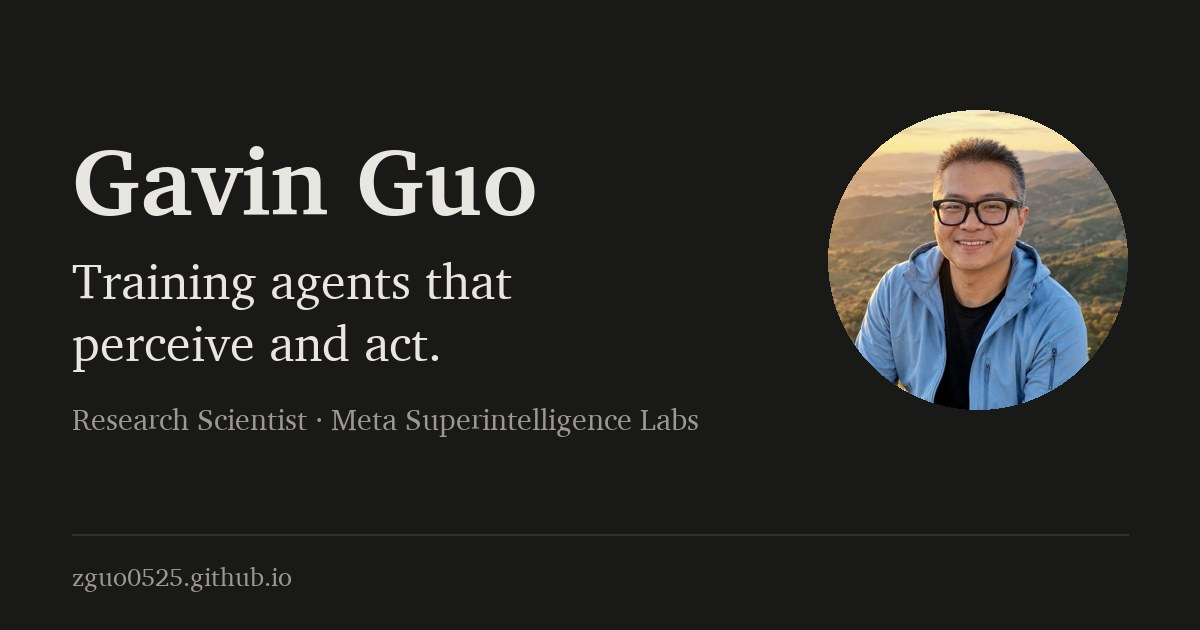
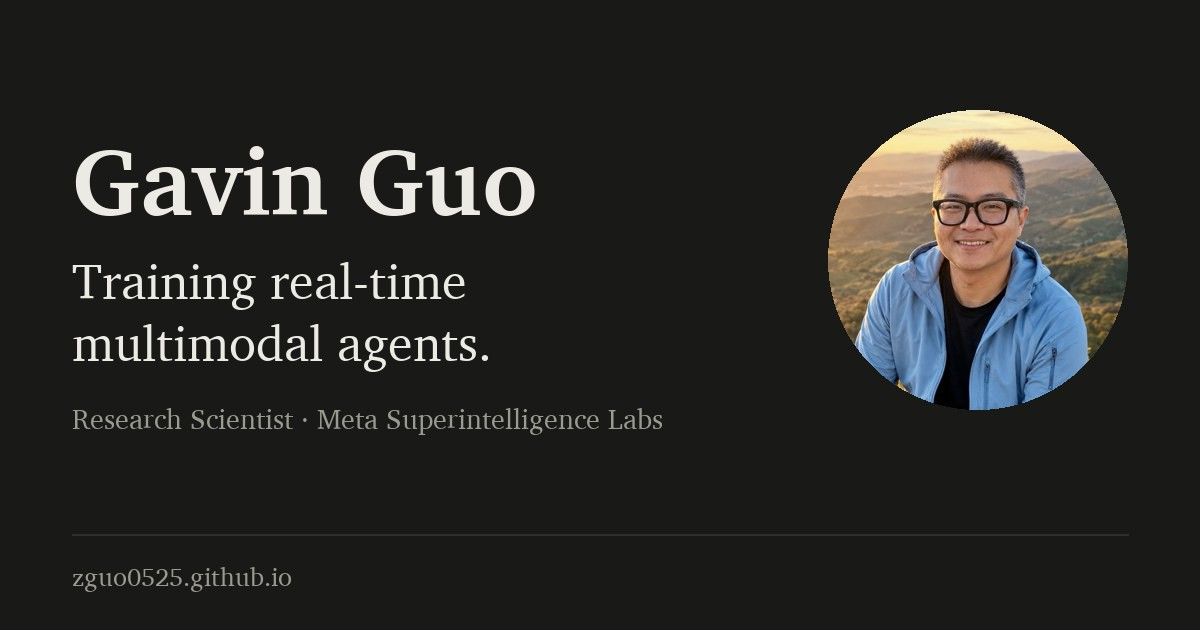
New opening and tagline, CV links on research cards, fix JetMoE claim, add Muse report to papers
Claude-Session: https://claude.ai/code/session_01HnC98uYSSXDKz9D1f4jfEu

Changed region(s): [[0.0617, 0.4222, 0.4317, 0.573], [0.0617, 0.6333, 0.5858, 0.6937]]

diff --git a/_layouts/default.html b/_layouts/default.html
@@ -6,7 +6,7 @@
     <meta name="theme-color" content="#191917">
     <meta name="color-scheme" content="dark">
     {% assign is_home_head = false %}{% if page.url == '/' or page.url == '/index.html' %}{% assign is_home_head = true %}{% endif %}
-    <title>{% if is_home_head %}Gavin Guo (国振) · Training agents that perceive and act{% else %}{{ page.title }} · Gavin Guo{% endif %}</title>
+    <title>{% if is_home_head %}Gavin Guo (国振) · Training real-time multimodal agents{% else %}{{ page.title }} · Gavin Guo{% endif %}</title>
     {% seo title=false %}
     <link rel="alternate" type="application/atom+xml" title="Essays — Gavin Guo" href="{{ '/feed/articles.xml' | relative_url }}">
     <link rel="icon" type="image/png" sizes="64x64" href="{{ '/favicon.png' | relative_url }}?v={{ site.time | date: '%s' }}">
@@ -51,7 +51,7 @@
           <div class="title-row">
             <h1 class="site-title"><a href="{{ '/' | absolute_url }}">Gavin Guo</a><span class="site-cjk">（国振）</span></h1>
           </div>
-          <p class="site-tagline"><span class="tagline-thesis">Training agents that perceive and act.</span> <span class="tagline-org">Research Scientist, Meta Superintelligence Labs · 2025–</span></p>
+          <p class="site-tagline"><span class="tagline-thesis">Training real-time multimodal agents.</span> <span class="tagline-org">Research Scientist, Meta Superintelligence Labs · 2025–</span></p>
         </div>
         <ul class="links" aria-label="Contact and profiles">
           <li><a href="mailto:{{ site.author.email }}">{% include icon-envelope.svg %}Email</a></li>

diff --git a/index.md b/index.md
@@ -1,16 +1,16 @@
 ---
 layout: default
-title: Training agents that perceive and act
+title: Training real-time multimodal agents
 ---
 
-I train multimodal models to act in the real world. Start from the capability we want, build the tasks, environments, rewards, and synthetic data that teach it, then train with RL.
+I train real-time multimodal agents that talk, listen, and act while the interaction is still going. I build the tasks, synthetic data, and rewards, then train with RL.
 
-At <img class="logo-inline" src="{{ '/assets/logos/meta.com.png' | relative_url }}" alt="" width="16" height="16">[**Meta Superintelligence Labs**](https://ai.meta.com/) I lead synthetic data and RL for [Muse](https://research.meta.ai/blog/bringing-your-muse-to-life), a real-time omni model for personal agents, and built the offline RL system behind [Vibes](https://about.fb.com/news/2025/09/introducing-vibes-ai-videos/). Before that, I worked on **Visual Intelligence** at <img class="logo-inline" src="{{ '/assets/logos/apple.com.png' | relative_url }}" alt="" width="16" height="16">[Apple](https://www.apple.com/newsroom/2025/06/apple-intelligence-gets-even-more-powerful-with-new-capabilities-across-apple-devices/) and **foundation models** at <img class="logo-inline" src="{{ '/assets/logos/mitibmwatsonailab.mit.edu.png' | relative_url }}" alt="" width="16" height="16">[MIT-IBM Watson](https://mitibmwatsonailab.mit.edu/). I got my **Ph.D. in Computer Science** at <img class="logo-inline" src="{{ '/assets/logos/mit.edu.png' | relative_url }}" alt="" width="16" height="16">[**MIT**](https://www.mit.edu/), and **B.A. in Physics** at <img class="logo-inline" src="{{ '/assets/logos/berkeley.edu.png' | relative_url }}" alt="" width="16" height="16">[**UC Berkeley**](https://www.berkeley.edu/). Outside work I read, write, bike, and hike.
+At <img class="logo-inline" src="{{ '/assets/logos/meta.com.png' | relative_url }}" alt="" width="16" height="16">[**Meta Superintelligence Labs**](https://ai.meta.com/) I lead synthetic data and RL for [Muse](https://research.meta.ai/blog/bringing-your-muse-to-life), and built the offline RL system behind [Vibes](https://about.fb.com/news/2025/09/introducing-vibes-ai-videos/). Before that, I worked on **Visual Intelligence** at <img class="logo-inline" src="{{ '/assets/logos/apple.com.png' | relative_url }}" alt="" width="16" height="16">[Apple](https://www.apple.com/newsroom/2025/06/apple-intelligence-gets-even-more-powerful-with-new-capabilities-across-apple-devices/) and **foundation models** at <img class="logo-inline" src="{{ '/assets/logos/mitibmwatsonailab.mit.edu.png' | relative_url }}" alt="" width="16" height="16">[MIT-IBM Watson](https://mitibmwatsonailab.mit.edu/). I got my **Ph.D. in Computer Science** at <img class="logo-inline" src="{{ '/assets/logos/mit.edu.png' | relative_url }}" alt="" width="16" height="16">[**MIT**](https://www.mit.edu/), and **B.A. in Physics** at <img class="logo-inline" src="{{ '/assets/logos/berkeley.edu.png' | relative_url }}" alt="" width="16" height="16">[**UC Berkeley**](https://www.berkeley.edu/). Outside work I read, write, bike, and hike.
 
 <dl class="now" markdown="0">
   <div class="now-row"><dt>Open questions</dt><dd>
     <ul>
-      <li>What does an agent need to perceive and act continuously, rather than turn by turn? <a class="chip chip-jump" href="#muse">Muse ↓</a></li>
+      <li>What does an agent need to keep state and act continuously, rather than turn by turn? <a class="chip chip-jump" href="#muse">Muse ↓</a></li>
       <li>How far can a task definition alone take you: environment, reward, and data? <a class="chip chip-jump" href="#synthetic-data-rl">Synthetic Data RL ↓</a></li>
       <li>How small can a model be and still plan on-device? <a class="chip chip-jump" href="#octo-planner">Octo-planner ↓</a></li>
     </ul>
@@ -28,9 +28,9 @@ At <img class="logo-inline" src="{{ '/assets/logos/meta.com.png' | relative_url 
   </a>
   <div class="rs-text">
     <div class="rs-kicker">Muse · Meta Connect 2026</div>
-    <h3><a href="https://research.meta.ai/blog/bringing-your-muse-to-life">Muse Realtime Voice and Avatar</a></h3>
-    <p>Muse Realtime Voice carries the conversation as a stream of speech tokens, and Muse Realtime Avatar turns the same stream into a live, expressive character for as long as the conversation runs. I lead synthetic data and RL, and work on the distillation that makes it fast enough to serve in real time.</p>
-    <p class="rs-refs"><a class="chip" href="https://research.meta.ai/blog/bringing-your-muse-to-life">Keynote</a></p>
+    <h3><a href="https://research.meta.ai/blog/bringing-your-muse-to-life">Real-time avatars for live conversation</a></h3>
+    <p>A live, expressive avatar that talks with you in real time. I lead synthetic data and RL, and developed the self-forcing and DMD distillation that makes it fast enough to run live.</p>
+    <p class="rs-refs"><a class="chip" href="https://research.meta.ai/blog/bringing-your-muse-to-life">Blog</a><a class="chip" href="https://x.com/AIatMeta/status/2102997291732766943">Keynote</a></p>
   </div>
 </article>
 
@@ -42,7 +42,7 @@ At <img class="logo-inline" src="{{ '/assets/logos/meta.com.png' | relative_url 
     <div class="rs-kicker">Vibes · 2025</div>
     <h3><a href="https://about.fb.com/news/2025/09/introducing-vibes-ai-videos/">Offline RL for a generated-video feed</a></h3>
     <p>Built the agentic long-form video workflow and the offline RL system behind Vibes, Meta AI's personalized video feed, and led its human-evaluation data.</p>
-    <p class="rs-refs"><a class="chip" href="https://about.fb.com/news/2025/09/introducing-vibes-ai-videos/">Blog</a></p>
+    <p class="rs-refs"><a class="chip" href="https://about.fb.com/news/2025/09/introducing-vibes-ai-videos/">Blog</a><a class="chip" href="https://s21.q4cdn.com/399680738/files/doc_financials/2025/q3/META-Q3-2025-Earnings-Call-Transcript.pdf">Earnings call</a><a class="chip" href="https://about.fb.com/news/2025/11/bringing-vibes-to-europe-a-new-way-to-create-share-and-play-in-the-meta-ai-app/">Europe</a></p>
   </div>
 </article>
 
@@ -54,7 +54,7 @@ At <img class="logo-inline" src="{{ '/assets/logos/meta.com.png' | relative_url 
     <div class="rs-kicker">Apple · 2025</div>
     <h3><a href="https://www.apple.com/newsroom/2025/06/apple-intelligence-gets-even-more-powerful-with-new-capabilities-across-apple-devices/">Visual Intelligence on device</a></h3>
     <p>Built the datasets for on-device visual question answering on iPhone with privacy-preserving VLMs, and post-trained Apple's foundation model for proactive question answering on egocentric video. Shipped in Apple Intelligence at WWDC 2025.</p>
-    <p class="rs-refs"><a class="chip" href="https://www.apple.com/newsroom/2025/06/apple-intelligence-gets-even-more-powerful-with-new-capabilities-across-apple-devices/">Blog</a></p>
+    <p class="rs-refs"><a class="chip" href="https://www.apple.com/newsroom/2025/06/apple-intelligence-gets-even-more-powerful-with-new-capabilities-across-apple-devices/">Blog</a><a class="chip" href="https://machinelearning.apple.com/research/apple-foundation-models-tech-report-2025">Tech report</a></p>
   </div>
 </article>
 
@@ -76,9 +76,9 @@ At <img class="logo-inline" src="{{ '/assets/logos/meta.com.png' | relative_url 
   </a>
   <div class="rs-text">
     <div class="rs-kicker">JetMoE · 2024</div>
-    <h3><a href="https://arxiv.org/abs/2404.07413">Open MoE at Llama2-13B quality</a></h3>
-    <p>JetMoE-8B, an open-source mixture-of-experts model trained for a fraction of the usual cost that outperforms Llama2-13B, with a synthetic corpus for pre-training and post-training.</p>
-    <p class="rs-refs"><a class="chip" href="https://arxiv.org/abs/2404.07413">Paper</a><a class="chip" href="https://github.com/myshell-ai/JetMoE">Code</a></p>
+    <h3><a href="https://arxiv.org/abs/2404.07413">Llama2-level open MoE on a small budget</a></h3>
+    <p>JetMoE-8B, an open-source mixture-of-experts model trained for a fraction of the usual cost, with a synthetic corpus for pre-training and post-training. Its chat model beats Llama2-13B-Chat on MT-Bench.</p>
+    <p class="rs-refs"><a class="chip" href="https://arxiv.org/abs/2404.07413">Paper</a><a class="chip" href="https://github.com/myshell-ai/JetMoE">Code</a><a class="chip" href="https://huggingface.co/jetmoe/jetmoe-8b">Model</a><a class="chip" href="https://x.com/MIT_CSAIL/status/1775916496503656679">CSAIL</a></p>
   </div>
 </article>
 
@@ -90,13 +90,13 @@ At <img class="logo-inline" src="{{ '/assets/logos/meta.com.png' | relative_url 
     <div class="rs-kicker">Octo-planner · 2024</div>
     <h3><a href="https://arxiv.org/abs/2406.18082">On-device planner-action agents</a></h3>
     <p>Efficient on-device task planning and decomposition, trained on a synthetic planning dataset with a multi-LoRA post-training pipeline.</p>
-    <p class="rs-refs"><a class="chip" href="https://arxiv.org/abs/2406.18082">Paper</a></p>
+    <p class="rs-refs"><a class="chip" href="https://arxiv.org/abs/2406.18082">Paper</a><a class="chip" href="https://huggingface.co/NexaAI/octopus-planning">Model</a><a class="chip" href="https://x.com/MIT_CSAIL/status/1806354919731179802">CSAIL</a></p>
   </div>
 </article>
 
 </div>
 
-<p class="more-link"><a href="{{ '/papers.html' | relative_url }}">All publications →</a></p>
+<p class="more-link"><a href="{{ '/papers.html' | relative_url }}">All publications →</a> · <a href="{{ site.author.googlescholar }}">Google Scholar →</a></p>
 
 ## News
 

diff --git a/pages/bio.md b/pages/bio.md
@@ -16,7 +16,7 @@ Gavin Guo is a research scientist at Meta Superintelligence Labs, where he leads
 
 ## Long
 
-Gavin Guo is a research scientist at Meta Superintelligence Labs. He leads synthetic data and RL for Muse, a real-time omni model that perceives and responds continuously rather than turn by turn, and built the offline RL system behind Vibes, Meta AI's personalized video feed. Before Meta, he was an AIML Resident at Apple, where he built the datasets for on-device visual question answering and post-trained Apple's foundation model for Visual Intelligence, shipped in Apple Intelligence at WWDC 2025. Earlier he worked on foundation models at the MIT-IBM Watson AI Lab, was a founding researcher at MyShell AI and PIN AI, co-led JetMoE, an open mixture-of-experts model that outperforms Llama2-13B, and co-authored Synthetic Data RL and Octo-planner. He holds a Ph.D. in Computer Science from MIT and a B.A. in Physics with Highest Honors from UC Berkeley. His current interests are RL environments and post-training for agents that use computers and interact in real time.
+Gavin Guo is a research scientist at Meta Superintelligence Labs. He leads synthetic data and RL for Muse, a real-time omni model that perceives and responds continuously rather than turn by turn, and built the offline RL system behind Vibes, Meta AI's personalized video feed. Before Meta, he was an AIML Resident at Apple, where he built the datasets for on-device visual question answering and post-trained Apple's foundation model for Visual Intelligence, shipped in Apple Intelligence at WWDC 2025. Earlier he worked on foundation models at the MIT-IBM Watson AI Lab, was a founding researcher at MyShell AI and PIN AI, co-led JetMoE, an open mixture-of-experts model whose chat model beats Llama2-13B-Chat on MT-Bench, and co-authored Synthetic Data RL and Octo-planner. He holds a Ph.D. in Computer Science from MIT and a B.A. in Physics with Highest Honors from UC Berkeley. His current interests are RL environments and post-training for agents that use computers and interact in real time.
 
 ## Headshot
 
